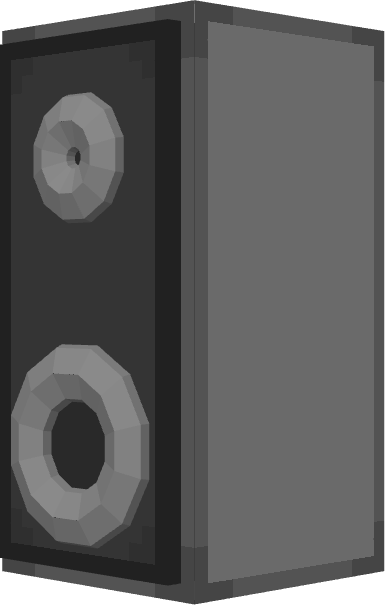
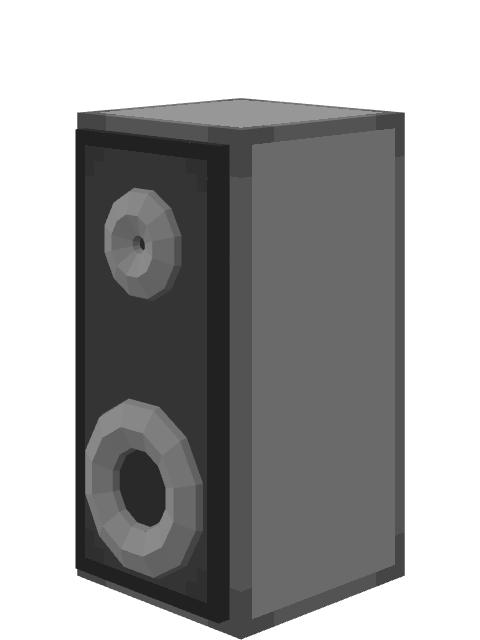
update speaker

diff --git a/data/levels.py b/data/levels.py
@@ -21,6 +21,7 @@ from modules.entities import EntityManager
 from modules.inventory import Collectible
 from modules.inventory import Inventory
 from modules.utils import gen_img_path
+from modules.utils import gen_map_path
 
 
 # LEVEL 0
@@ -121,16 +122,17 @@ entities = {
         width=0.25,
         height=0.6,
         attack_width=0.4,
-        render_width=0.5,
+        render_width=0.75,
+        render_height=1.0,
         textures=[
-            pg.image.load(gen_img_path('vassago', '1.png')),
-            pg.image.load(gen_img_path('vassago', '2.png')),
-            pg.image.load(gen_img_path('vassago', '3.png')),
-            pg.image.load(gen_img_path('vassago', '4.png')),
-            pg.image.load(gen_img_path('vassago', '5.png')),
-            pg.image.load(gen_img_path('vassago', '6.png')),
-            pg.image.load(gen_img_path('vassago', '7.png')),
-            pg.image.load(gen_img_path('vassago', '8.png')),
+            pg.image.load(gen_img_path('speaker', '1.png')),
+            pg.image.load(gen_img_path('speaker', '2.png')),
+            pg.image.load(gen_img_path('speaker', '3.png')),
+            pg.image.load(gen_img_path('speaker', '4.png')),
+            pg.image.load(gen_img_path('speaker', '5.png')),
+            pg.image.load(gen_img_path('speaker', '6.png')),
+            pg.image.load(gen_img_path('speaker', '7.png')),
+            pg.image.load(gen_img_path('speaker', '8.png')),
         ]
     ),
     Entity(
@@ -234,7 +236,7 @@ specials = SpecialManager()
 level0 = Level(
     floor=Floor(pg.image.load(gen_img_path('tilesets', 'main', 'wood.png'))),
     ceiling=Sky(pg.image.load(gen_img_path('nightsky.png'))),
-    walls=Walls.load(gen_map_path(demo2.json'), wall_textures),
+    walls=Walls.load(gen_map_path('demo2.json'), wall_textures),
     specials=specials,
     entities=entities,
     sounds=SOUNDS,
